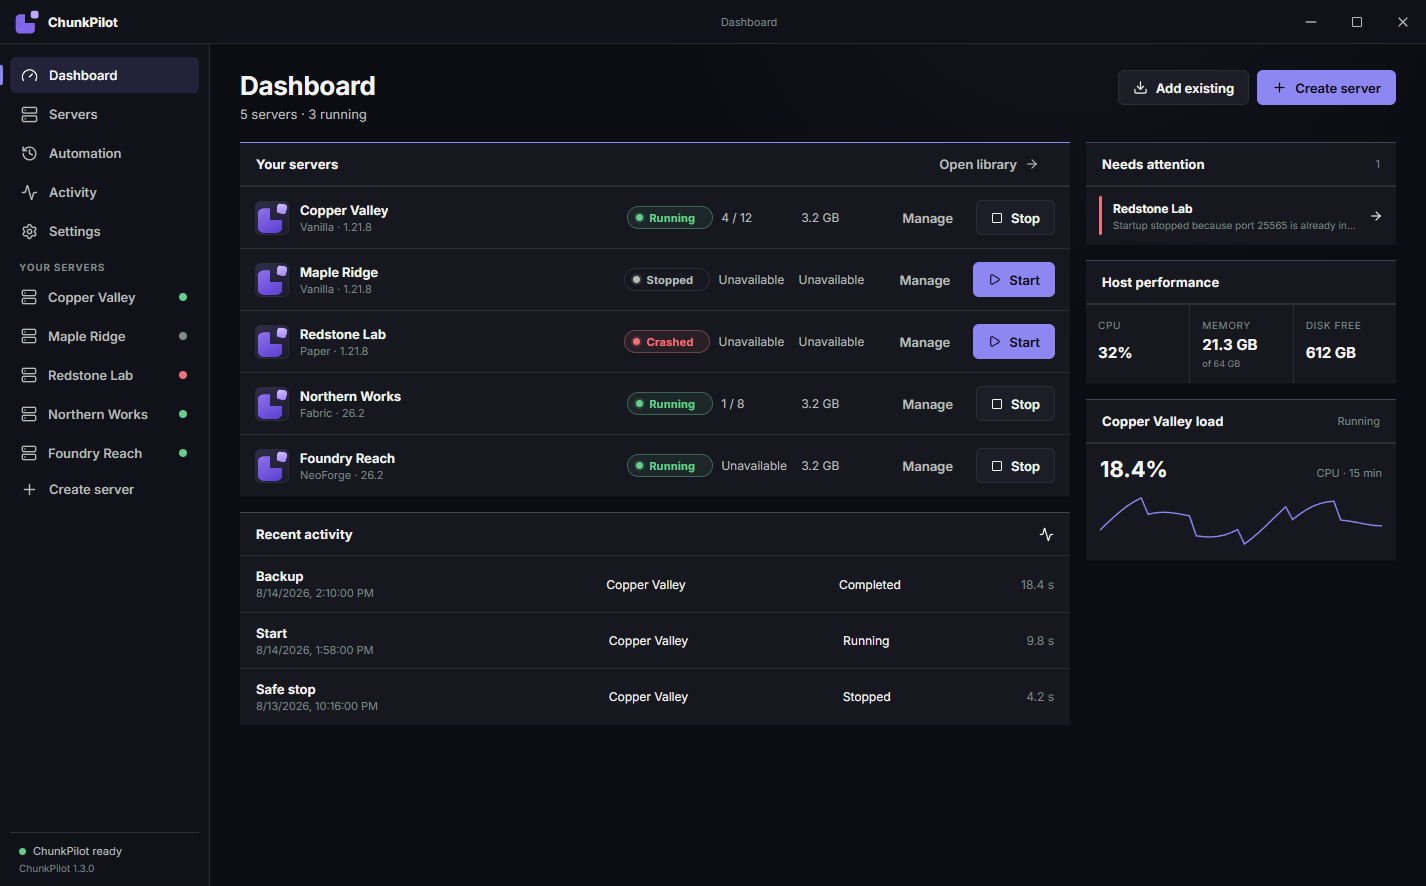
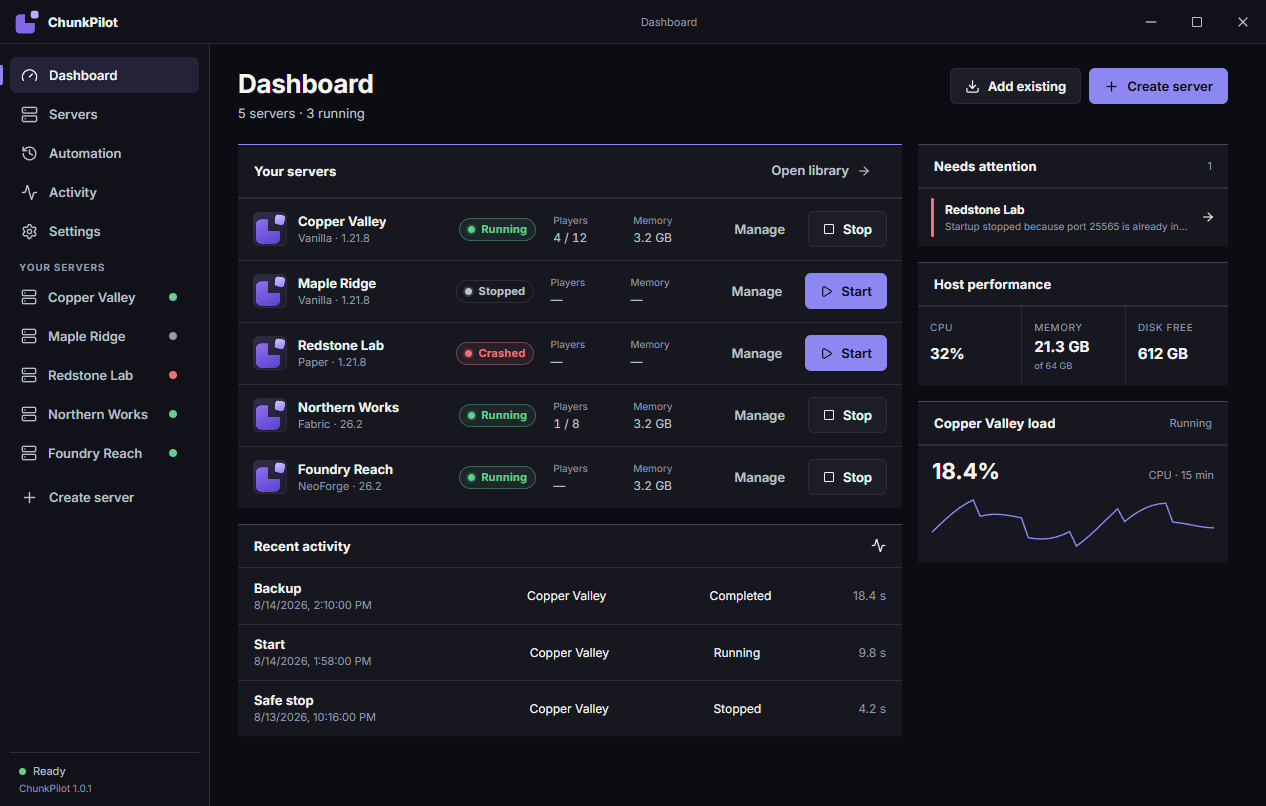
Refresh the public dashboard screenshot from the polished sample UI

diff --git a/README.md b/README.md
@@ -6,7 +6,7 @@
 
 Create a Minecraft server, bring an existing world, and play with friends. ChunkPilot manages Java, server files, backups, updates, and connections from one Windows app.
 
-![ChunkPilot dashboard](docs/images/dashboard.png)
+![ChunkPilot dashboard with sample servers](docs/images/dashboard.png)
 
 ## Download ChunkPilot 1.0.1
 
